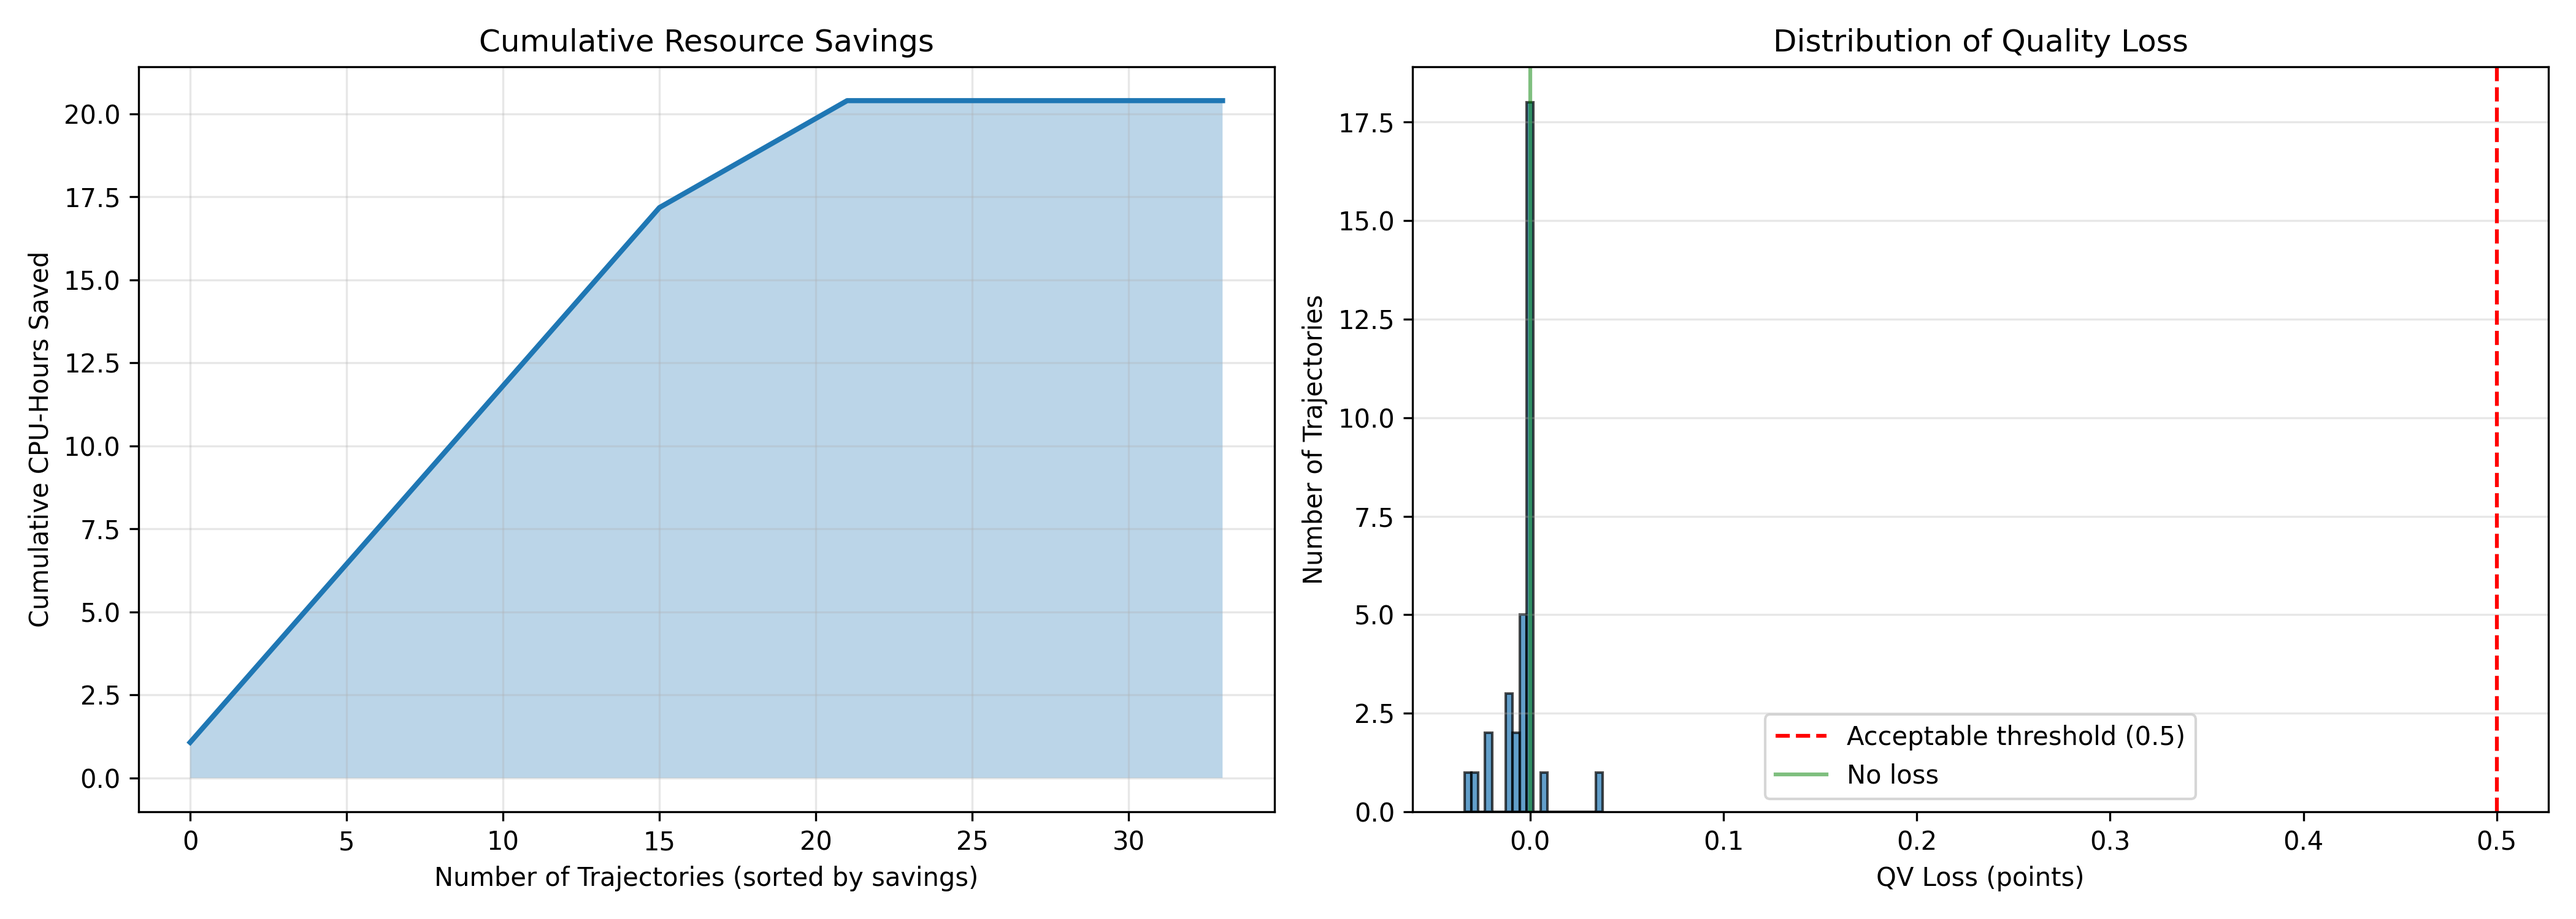
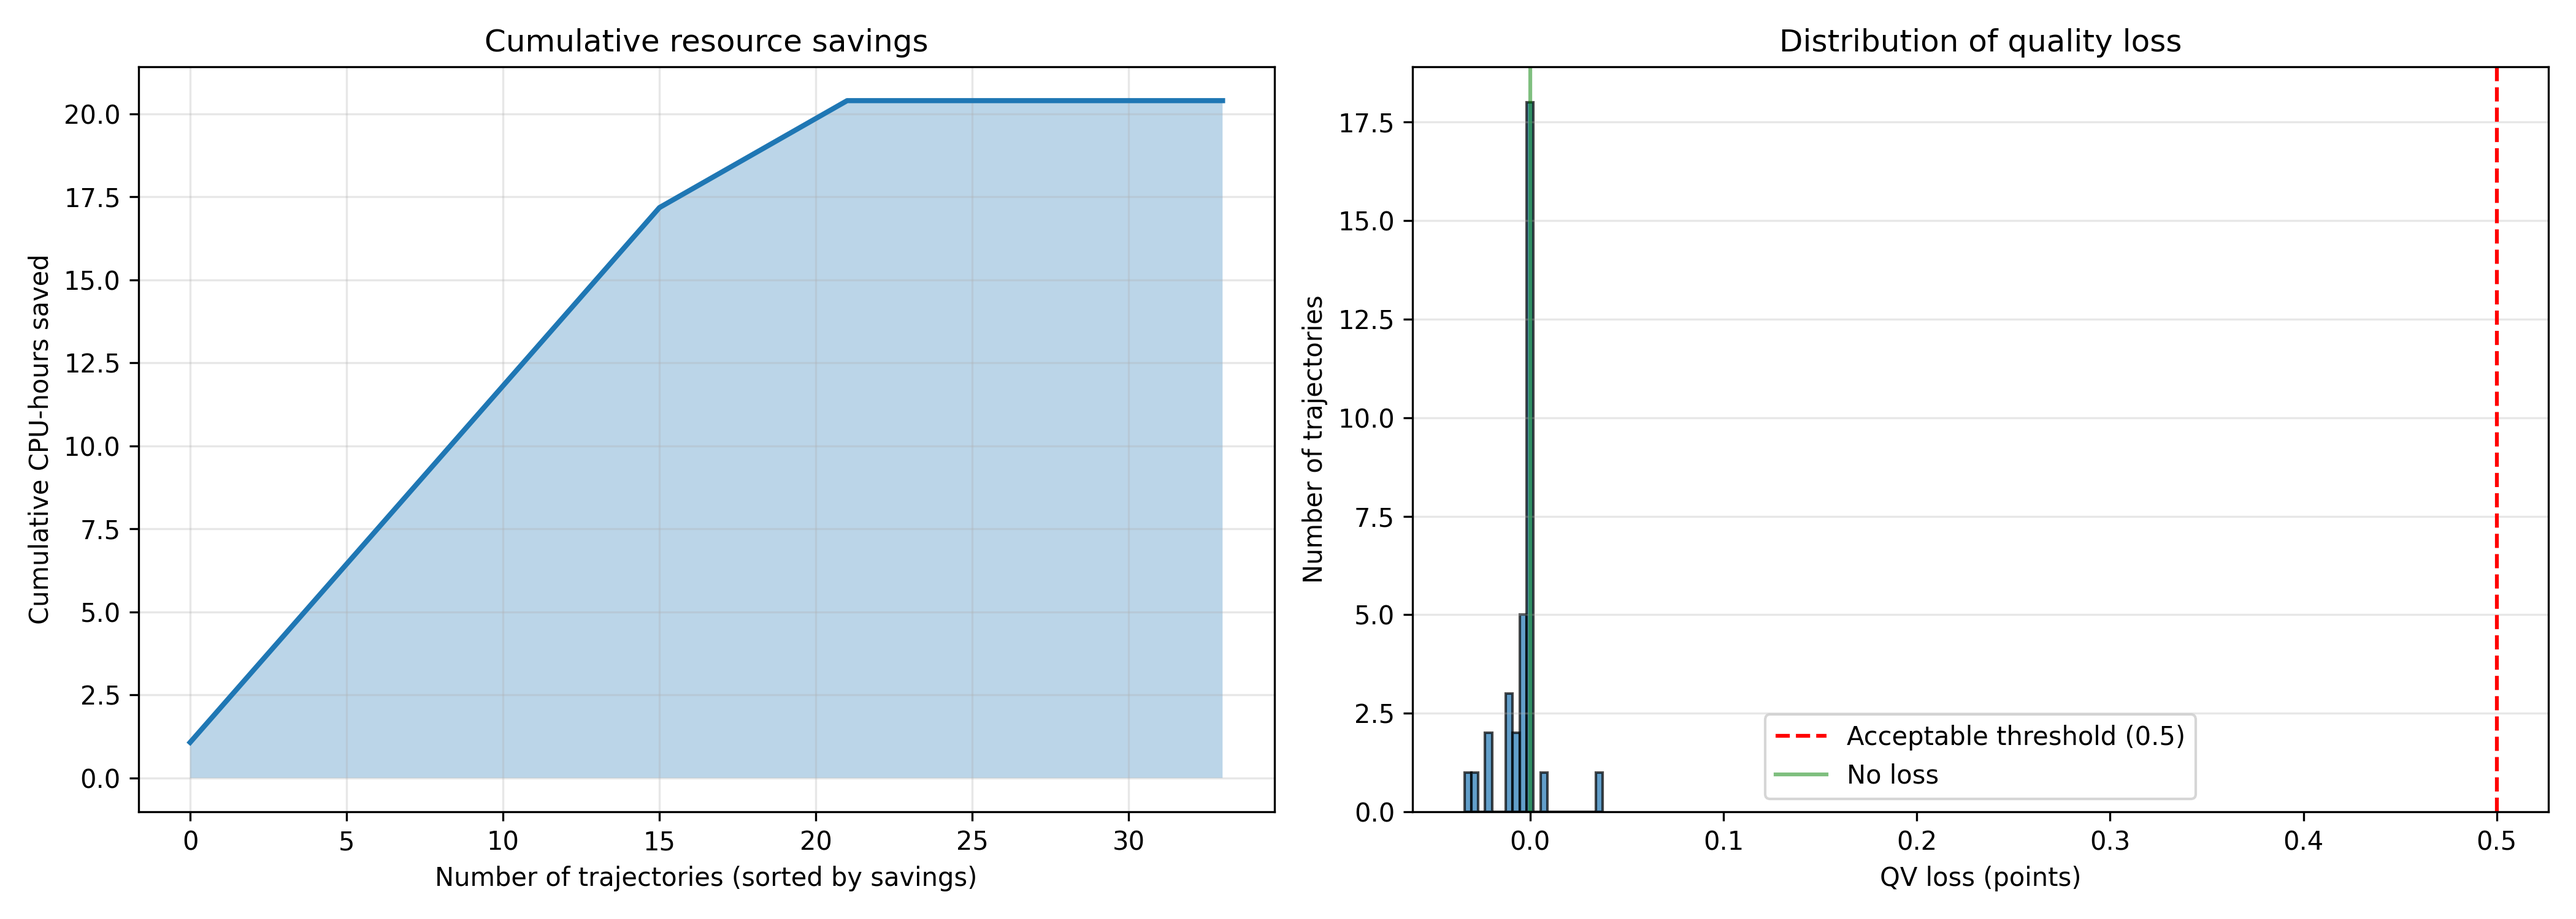
commit updtae repo

diff --git a/9_benchmark_resources.py b/9_benchmark_resources.py
@@ -5,7 +5,6 @@
 
 Measures computational savings from ESDP early stopping decisions.
 
-FINAL CORRECTIONS:
 - Uses the SAME sample-level split saved by 5_train_models.py
 - Benchmarks at trajectory level: Sample + Coverage (not Sample only)
 - Prevents mixing rounds from different coverages of the same sample
@@ -29,6 +28,7 @@ import matplotlib.pyplot as plt
 import numpy as np
 import pandas as pd
 from scipy import stats
+from matplotlib.lines import Line2D
 
 # ============================================================
 # LOGGING
@@ -56,7 +56,6 @@ DATA_PATH = Path("data/training_dataset_with_target.csv")
 MODELS_DIR = Path("models")
 OUTPUTS_DIR = Path("outputs")
 PLOTS_DIR = OUTPUTS_DIR / "plots"
-
 
 # ============================================================
 # HELPER FUNCTIONS
@@ -162,7 +161,6 @@ def load_feature_names():
         raise FileNotFoundError(f"Missing feature names file: {feature_path}")
     return [line.strip() for line in feature_path.read_text().splitlines() if line.strip()]
 
-
 # ============================================================
 # MAIN BENCHMARK FUNCTION
 # ============================================================
@@ -178,9 +176,7 @@ def run_benchmark():
     PLOTS_DIR.mkdir(parents=True, exist_ok=True)
     OUTPUTS_DIR.mkdir(parents=True, exist_ok=True)
 
-    # ============================================================
     # 1. Load data and trained pipeline
-    # ============================================================
     logger.info("\nLoading data and model...")
     if not DATA_PATH.exists():
         raise FileNotFoundError(f"Missing input data: {DATA_PATH}")
@@ -204,9 +200,7 @@ def run_benchmark():
     logger.info(f"Loaded {len(df)} rows")
     logger.info(f"Unique samples: {df['Sample'].nunique()}")
 
-    # ============================================================
     # 2. Load saved split from training
-    # ============================================================
     split_file = get_split_file()
     with open(split_file, "r") as f:
         split_info = json.load(f)
@@ -217,9 +211,7 @@ def run_benchmark():
     logger.info(f"\nUsing TEST SET for benchmark: {len(test_samples)} samples")
     logger.info(f"Test rows: {len(df_test)}")
 
-    # ============================================================
     # 3. Benchmark each trajectory: Sample + Coverage
-    # ============================================================
     results = []
 
     grouped = df_test.groupby(["Sample", cov_col], dropna=False)
@@ -241,7 +233,6 @@ def run_benchmark():
         r3 = traj[traj["round"] == 3].iloc[0]
         r5 = traj[traj["round"] == 5].iloc[0]
 
-        # Prepare R1 features for prediction using the trained pipeline directly
         X_r1 = pd.DataFrame([r1[feature_names]], columns=feature_names)
         X_r1 = X_r1.replace([np.inf, -np.inf], np.nan)
 
@@ -266,7 +257,6 @@ def run_benchmark():
         metrics_rec = traj[traj["round"] == rec_rounds].iloc[0]
         metrics_random = traj[traj["round"] == random_rounds].iloc[0]
 
-        # Resource cost
         cpu_r5 = 5 * CPU_HOURS_PER_ROUND
         cpu_r1 = 1 * CPU_HOURS_PER_ROUND
         cpu_esdp = rec_rounds * CPU_HOURS_PER_ROUND
@@ -275,7 +265,6 @@ def run_benchmark():
         mem_r5 = 5 * MEMORY_GB_PER_ROUND
         mem_esdp = rec_rounds * MEMORY_GB_PER_ROUND
 
-        # Quality metrics
         qv_r5 = float(r5["qv"])
         qv_r1 = float(r1["qv"])
         qv_esdp = float(metrics_rec["qv"])
@@ -286,12 +275,10 @@ def run_benchmark():
         busco_esdp = float(metrics_rec["busco_complete"])
         busco_random = float(metrics_random["busco_complete"])
 
-        # Savings vs R5
         cpu_saved_esdp = cpu_r5 - cpu_esdp
         cpu_saved_r1 = cpu_r5 - cpu_r1
         cpu_saved_random = cpu_r5 - cpu_random
 
-        # Quality loss vs R5
         qv_loss_esdp = qv_r5 - qv_esdp
         qv_loss_r1 = qv_r5 - qv_r1
         qv_loss_random = qv_r5 - qv_random
@@ -300,7 +287,6 @@ def run_benchmark():
         busco_loss_r1 = busco_r5 - busco_r1
         busco_loss_random = busco_r5 - busco_random
 
-        # Efficiency
         eff_r5 = qv_r5 / cpu_r5
         eff_r1 = qv_r1 / cpu_r1
         eff_esdp = qv_esdp / cpu_esdp
@@ -381,9 +367,7 @@ def run_benchmark():
     if res_df.empty:
         raise RuntimeError("Benchmark produced no valid trajectories. Check rounds and test split.")
 
-    # ============================================================
     # 4. Summary with confidence intervals
-    # ============================================================
     logger.info("\n" + "=" * 60)
     logger.info("BENCHMARK RESULTS (with 95% CI)")
     logger.info("=" * 60)
@@ -397,7 +381,7 @@ def run_benchmark():
     cpu_reduction_esdp_mean = res_df["CPU_Reduction_ESDP_Pct"].mean()
     cpu_reduction_esdp_ci = bootstrap_ci(res_df["CPU_Reduction_ESDP_Pct"].values)
 
-    logger.info("\n💰 RESOURCE SAVINGS (ESDP):")
+    logger.info("\nRESOURCE SAVINGS (ESDP):")
     logger.info(f"  Total trajectories: {total_traj}")
     logger.info(f"  Unique test samples: {total_samples}")
     logger.info(f"  Total CPU saved: {res_df['CPU_Saved_ESDP'].sum():.1f}h")
@@ -416,7 +400,7 @@ def run_benchmark():
     busco_loss_mean = res_df["BUSCO_Loss_ESDP"].mean()
     busco_loss_ci = bootstrap_ci(res_df["BUSCO_Loss_ESDP"].values)
 
-    logger.info("\n🎯 QUALITY IMPACT (ESDP):")
+    logger.info("\nQUALITY IMPACT (ESDP):")
     logger.info(f"  Avg QV loss: {format_ci(qv_loss_mean, *qv_loss_ci, decimals=4)} points")
     logger.info(f"  Avg BUSCO loss: {format_ci(busco_loss_mean, *busco_loss_ci)}%")
     logger.info(
@@ -431,14 +415,12 @@ def run_benchmark():
     eff_gain_mean = res_df["Efficiency_Gain_ESDP_Pct"].mean()
     eff_gain_ci = bootstrap_ci(res_df["Efficiency_Gain_ESDP_Pct"].values)
 
-    logger.info("\n⚡ EFFICIENCY GAINS (ESDP):")
+    logger.info("\nEFFICIENCY GAINS (ESDP):")
     logger.info(f"  Avg efficiency gain: {format_ci(eff_gain_mean, *eff_gain_ci)}%")
     logger.info(f"  Best efficiency gain: {res_df['Efficiency_Gain_ESDP_Pct'].max():.1f}%")
 
-    # ============================================================
     # 5. Statistical significance tests
-    # ============================================================
-    logger.info("\n📊 STATISTICAL SIGNIFICANCE:")
+    logger.info("\nSTATISTICAL SIGNIFICANCE:")
 
     stat_qv_r1, p_qv_r1 = safe_wilcoxon(res_df["QV_ESDP"], res_df["QV_R1"])
     stat_cpu_r1, p_cpu_r1 = safe_wilcoxon(res_df["CPU_ESDP_Hours"], res_df["CPU_R1_Hours"])
@@ -454,10 +436,8 @@ def run_benchmark():
     logger.info(f"    QV difference: p={p_qv_rand:.4f} {significance_stars(p_qv_rand)}")
     logger.info(f"    CPU difference: p={p_cpu_rand:.4f} {significance_stars(p_cpu_rand)}")
 
-    # ============================================================
     # 6. Baseline comparison table
-    # ============================================================
-    logger.info("\n📋 BASELINE COMPARISON:")
+    logger.info("\nBASELINE COMPARISON:")
 
     comparison = pd.DataFrame({
         "Strategy": ["Always R5 (Baseline)", "ESDP", "Always R1", "Random"],
@@ -489,27 +469,26 @@ def run_benchmark():
 
     logger.info(f"\n{comparison.to_string(index=False)}")
 
-    # ============================================================
     # 7. Decision breakdown
-    # ============================================================
-    logger.info("\n🔍 DECISION BREAKDOWN:")
+    logger.info("\nDECISION BREAKDOWN:")
     decision_counts = res_df["Recommended_Rounds"].value_counts().sort_index()
     for rounds, count in decision_counts.items():
         pct = (count / total_traj) * 100
         logger.info(f"  {rounds} rounds: {count} trajectories ({pct:.1f}%)")
 
-    # ============================================================
     # 8. Visualizations
-    # ============================================================
+
     logger.info("\nGenerating visualizations...")
 
-    # Plot 1: Resource saving vs quality loss
+    # Plot 1: Resource saving vs quality loss (discrete colors 1/3/5)
+    round_to_color = {1: "green", 3: "gold", 5: "red"}
+    colors = res_df["Recommended_Rounds"].map(round_to_color).values
+
     fig, ax = plt.subplots(figsize=(10, 6))
     scatter = ax.scatter(
         res_df["CPU_Reduction_ESDP_Pct"],
         res_df["QV_Loss_ESDP"],
-        c=res_df["Recommended_Rounds"],
-        cmap="RdYlGn_r",
+        c=colors,
         s=90,
         alpha=0.7,
         edgecolors="black"
@@ -527,13 +506,22 @@ def run_benchmark():
         alpha=0.4,
         label="Zero QV loss"
     )
-    ax.set_xlabel("CPU Resource Reduction (%)")
-    ax.set_ylabel("Quality Loss (QV points)")
+    ax.set_xlabel("CPU resource reduction (%) relative to fixed five-round baseline")
+    ax.set_ylabel("Quality loss (QV points)")
     ax.set_title("Resource-efficiency benchmark of ESDP")
     ax.grid(True, alpha=0.3)
-    ax.legend()
-    cbar = plt.colorbar(scatter, ax=ax)
-    cbar.set_label("Recommended polishing rounds", rotation=270, labelpad=20)
+
+    legend_elements = [
+        Line2D([0], [0], marker='o', color='w', label='1 round',
+               markerfacecolor='green', markeredgecolor='black', markersize=8),
+        Line2D([0], [0], marker='o', color='w', label='3 rounds',
+               markerfacecolor='gold', markeredgecolor='black', markersize=8),
+        Line2D([0], [0], marker='o', color='w', label='5 rounds',
+               markerfacecolor='red', markeredgecolor='black', markersize=8),
+    ]
+    handles, labels = ax.get_legend_handles_labels()
+    ax.legend(handles=legend_elements + handles, loc="best")
+
     plt.tight_layout()
     plt.savefig(PLOTS_DIR / "resource_vs_quality.png", dpi=300)
     plt.close()
@@ -547,8 +535,8 @@ def run_benchmark():
     qv_means = comparison["Avg_QV"].tolist()
 
     bars1 = ax1.bar(strategies, cpu_means, alpha=0.8)
-    ax1.set_ylabel("Average CPU Hours")
-    ax1.set_title("Computational Cost Comparison")
+    ax1.set_ylabel("Average CPU hours")
+    ax1.set_title("Computational cost comparison")
     ax1.grid(True, alpha=0.3, axis="y")
     for bar in bars1:
         h = bar.get_height()
@@ -563,7 +551,7 @@ def run_benchmark():
 
     bars2 = ax2.bar(strategies, qv_means, alpha=0.8)
     ax2.set_ylabel("Average QV")
-    ax2.set_title("Assembly Quality Comparison")
+    ax2.set_title("Assembly quality comparison")
     ax2.grid(True, alpha=0.3, axis="y")
     for bar in bars2:
         h = bar.get_height()
@@ -588,9 +576,9 @@ def run_benchmark():
     ax.bar(x - width, res_df["Efficiency_R5"], width, label="R5 (Baseline)", alpha=0.7)
     ax.bar(x, res_df["Efficiency_ESDP"], width, label="ESDP", alpha=0.7)
     ax.bar(x + width, res_df["Efficiency_R1"], width, label="R1 (Always)", alpha=0.7)
-    ax.set_xlabel("Trajectory Index")
+    ax.set_xlabel("Trajectory index")
     ax.set_ylabel("Efficiency (QV per CPU-hour)")
-    ax.set_title("Computational Efficiency: Baseline vs ESDP vs Always R1")
+    ax.set_title("Computational efficiency: baseline vs ESDP vs Always R1")
     ax.legend()
     ax.grid(True, alpha=0.3, axis="y")
     plt.tight_layout()
@@ -603,9 +591,9 @@ def run_benchmark():
     decision_by_genus = res_df.groupby(["Genus", "Recommended_Rounds"]).size().unstack(fill_value=0)
     decision_by_genus.plot(kind="bar", stacked=True, ax=ax)
     ax.set_xlabel("Genus")
-    ax.set_ylabel("Number of Trajectories")
-    ax.set_title("ESDP Decisions by Genus")
-    ax.legend(title="Recommended Rounds")
+    ax.set_ylabel("Number of trajectories")
+    ax.set_title("ESDP decisions by genus")
+    ax.legend(title="Recommended rounds")
     plt.xticks(rotation=45, ha="right")
     plt.tight_layout()
     plt.savefig(PLOTS_DIR / "decisions_by_genus.png", dpi=300)
@@ -619,9 +607,9 @@ def run_benchmark():
     cumulative_savings = res_df_sorted["CPU_Saved_ESDP"].cumsum()
     ax1.plot(range(len(cumulative_savings)), cumulative_savings, linewidth=2)
     ax1.fill_between(range(len(cumulative_savings)), cumulative_savings, alpha=0.3)
-    ax1.set_xlabel("Number of Trajectories (sorted by savings)")
-    ax1.set_ylabel("Cumulative CPU-Hours Saved")
-    ax1.set_title("Cumulative Resource Savings")
+    ax1.set_xlabel("Number of trajectories (sorted by savings)")
+    ax1.set_ylabel("Cumulative CPU-hours saved")
+    ax1.set_title("Cumulative resource savings")
     ax1.grid(True, alpha=0.3)
 
     ax2.hist(res_df["QV_Loss_ESDP"], bins=20, edgecolor="black", alpha=0.7)
@@ -632,9 +620,9 @@ def run_benchmark():
         label=f"Acceptable threshold ({ACCEPTABLE_QV_LOSS})"
     )
     ax2.axvline(0, color="green", linestyle="-", alpha=0.5, label="No loss")
-    ax2.set_xlabel("QV Loss (points)")
-    ax2.set_ylabel("Number of Trajectories")
-    ax2.set_title("Distribution of Quality Loss")
+    ax2.set_xlabel("QV loss (points)")
+    ax2.set_ylabel("Number of trajectories")
+    ax2.set_title("Distribution of quality loss")
     ax2.legend()
     ax2.grid(True, alpha=0.3, axis="y")
 
@@ -643,12 +631,10 @@ def run_benchmark():
     plt.close()
     logger.info(f"  Saved: {PLOTS_DIR / 'cost_benefit_analysis.png'}")
 
-    # ============================================================
     # 9. Save outputs
-    # ============================================================
     output_path = OUTPUTS_DIR / "resource_benchmark_results.csv"
     res_df.to_csv(output_path, index=False)
-    logger.info(f"\n💾 Results saved to: {output_path}")
+    logger.info(f"\nResults saved to: {output_path}")
 
     comparison_path = OUTPUTS_DIR / "baseline_comparison_table.csv"
     comparison.to_csv(comparison_path, index=False)
@@ -686,9 +672,7 @@ def run_benchmark():
     summary_df.to_csv(summary_path, index=False)
     logger.info(f"Summary saved to: {summary_path}")
 
-    # ============================================================
     # 10. Publication-ready summary table
-    # ============================================================
     logger.info("\n" + "=" * 60)
     logger.info("PUBLICATION-READY SUMMARY TABLE")
     logger.info("=" * 60)
@@ -730,9 +714,5 @@ def run_benchmark():
 
     return res_df, summary, comparison, pub_table
 
-
-# ============================================================
-# CLI
-# ============================================================
 if __name__ == "__main__":
     results_df, summary, comparison, pub_table = run_benchmark()
